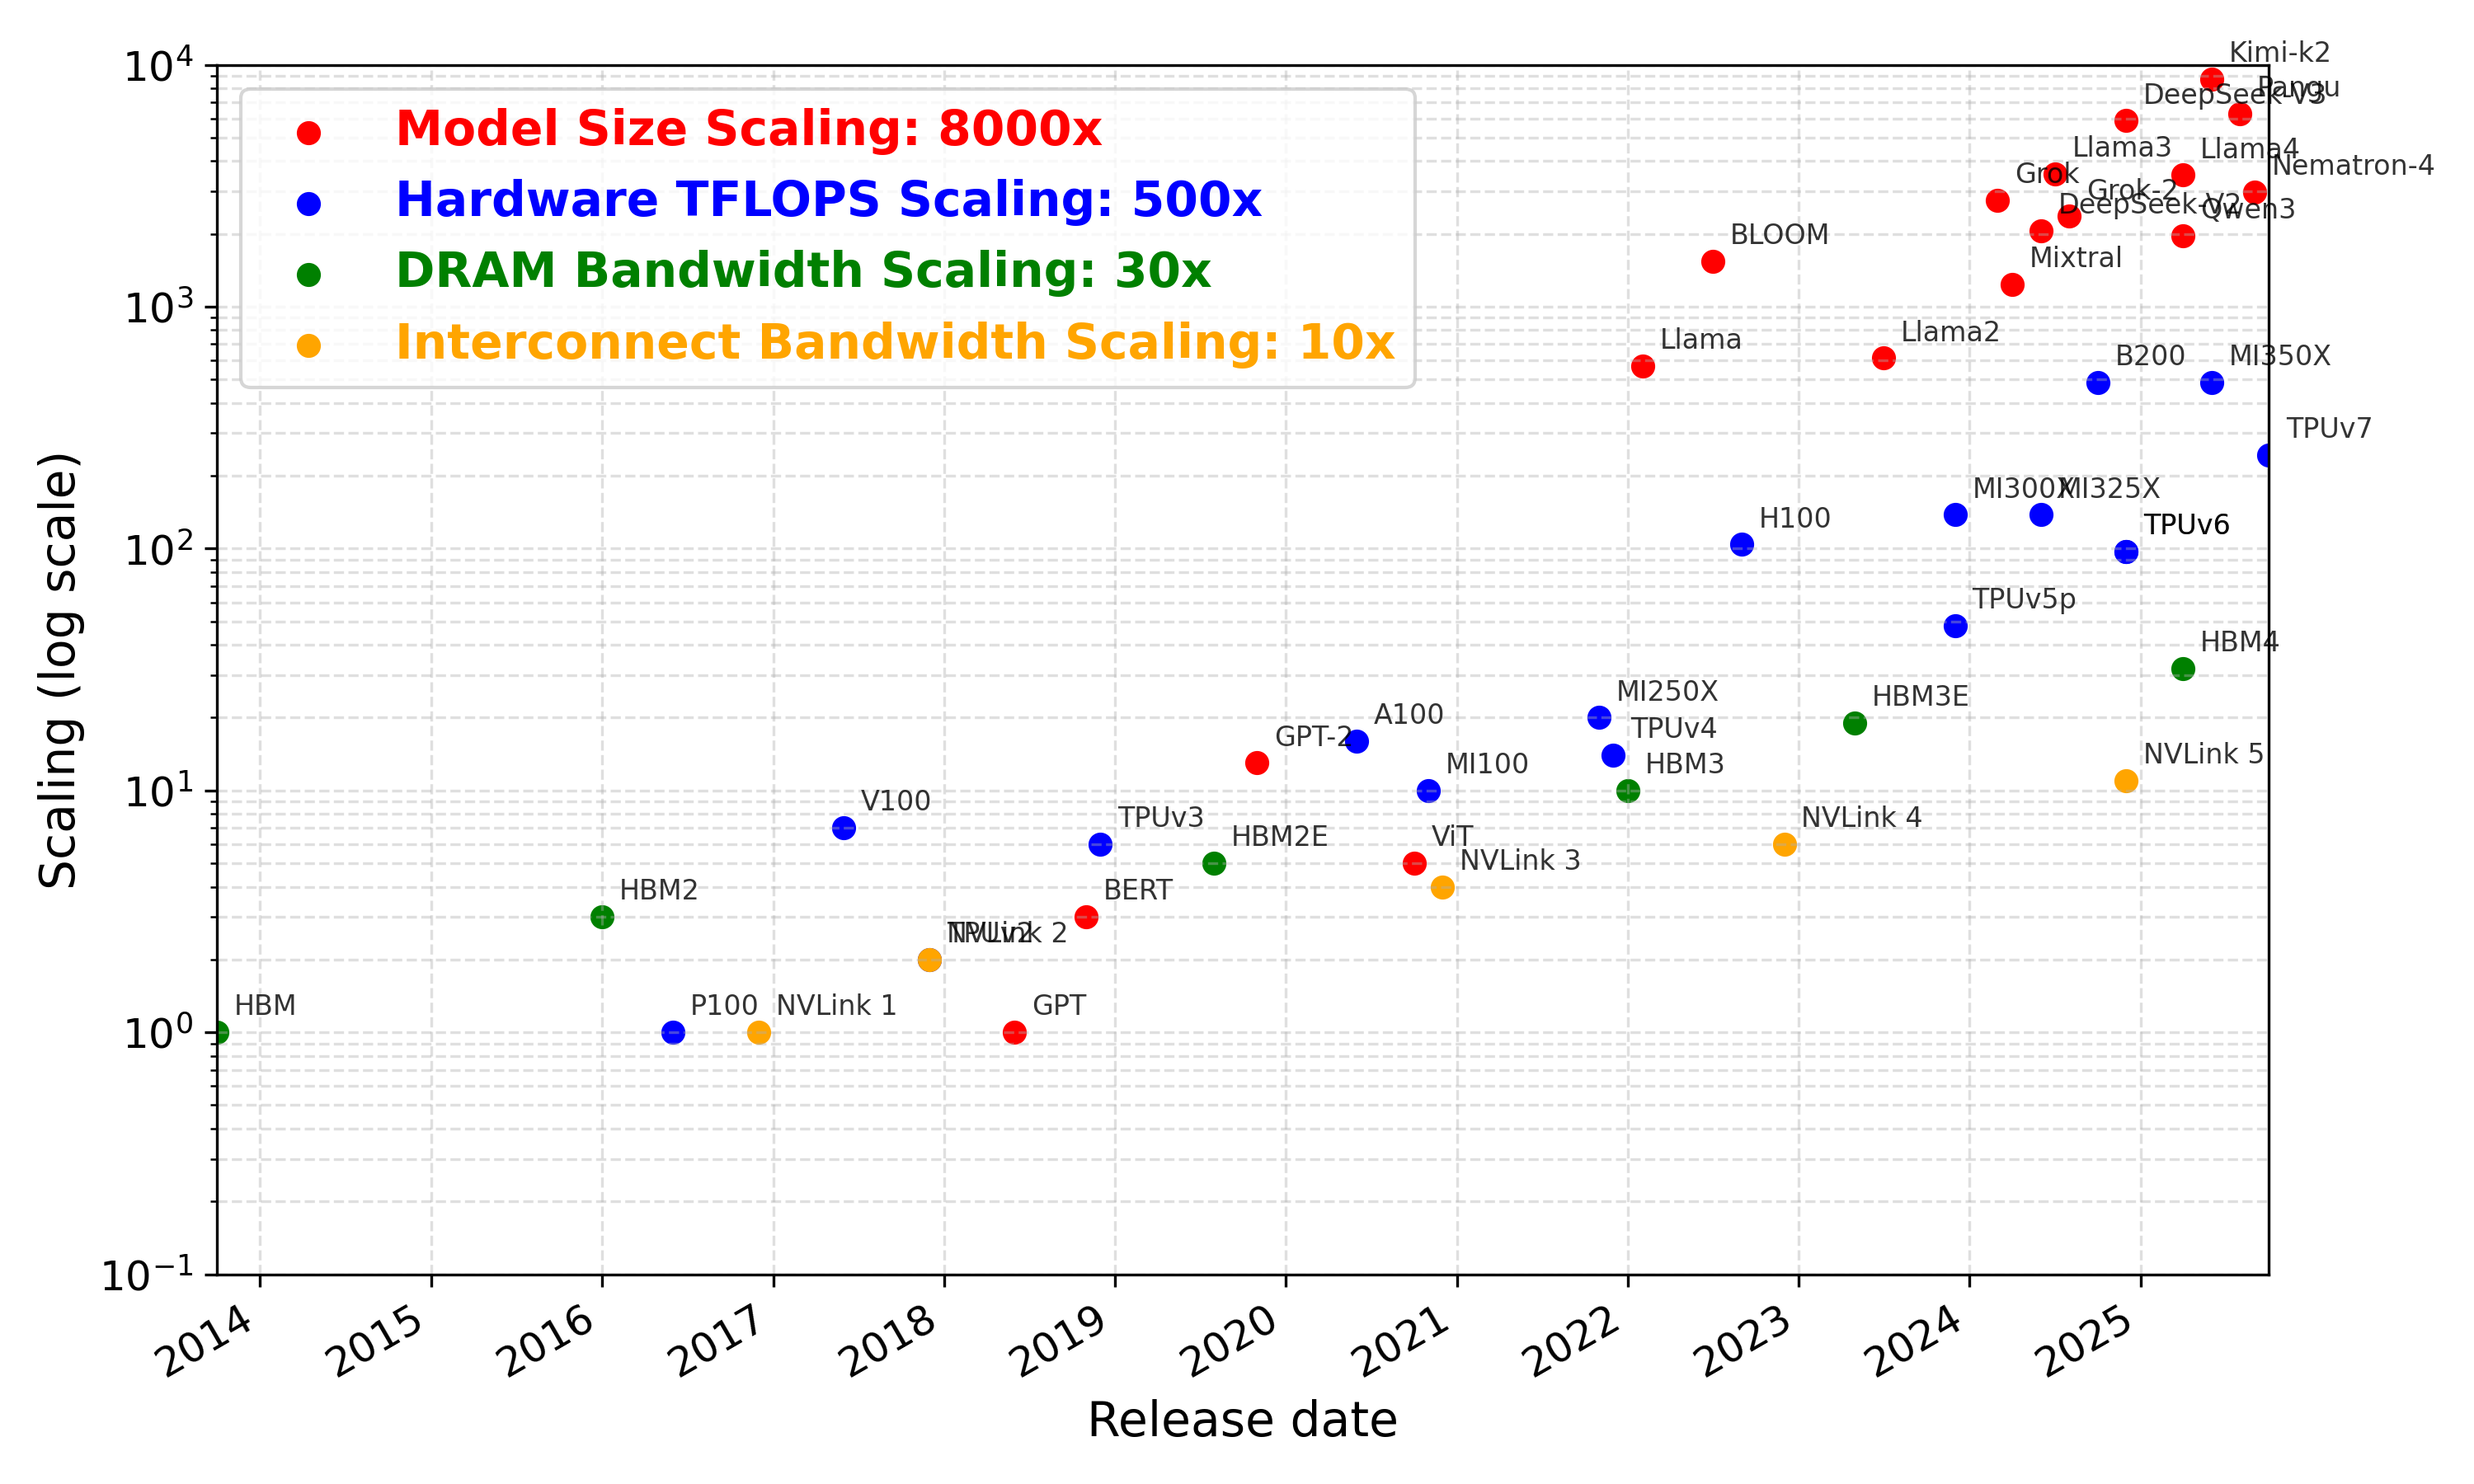
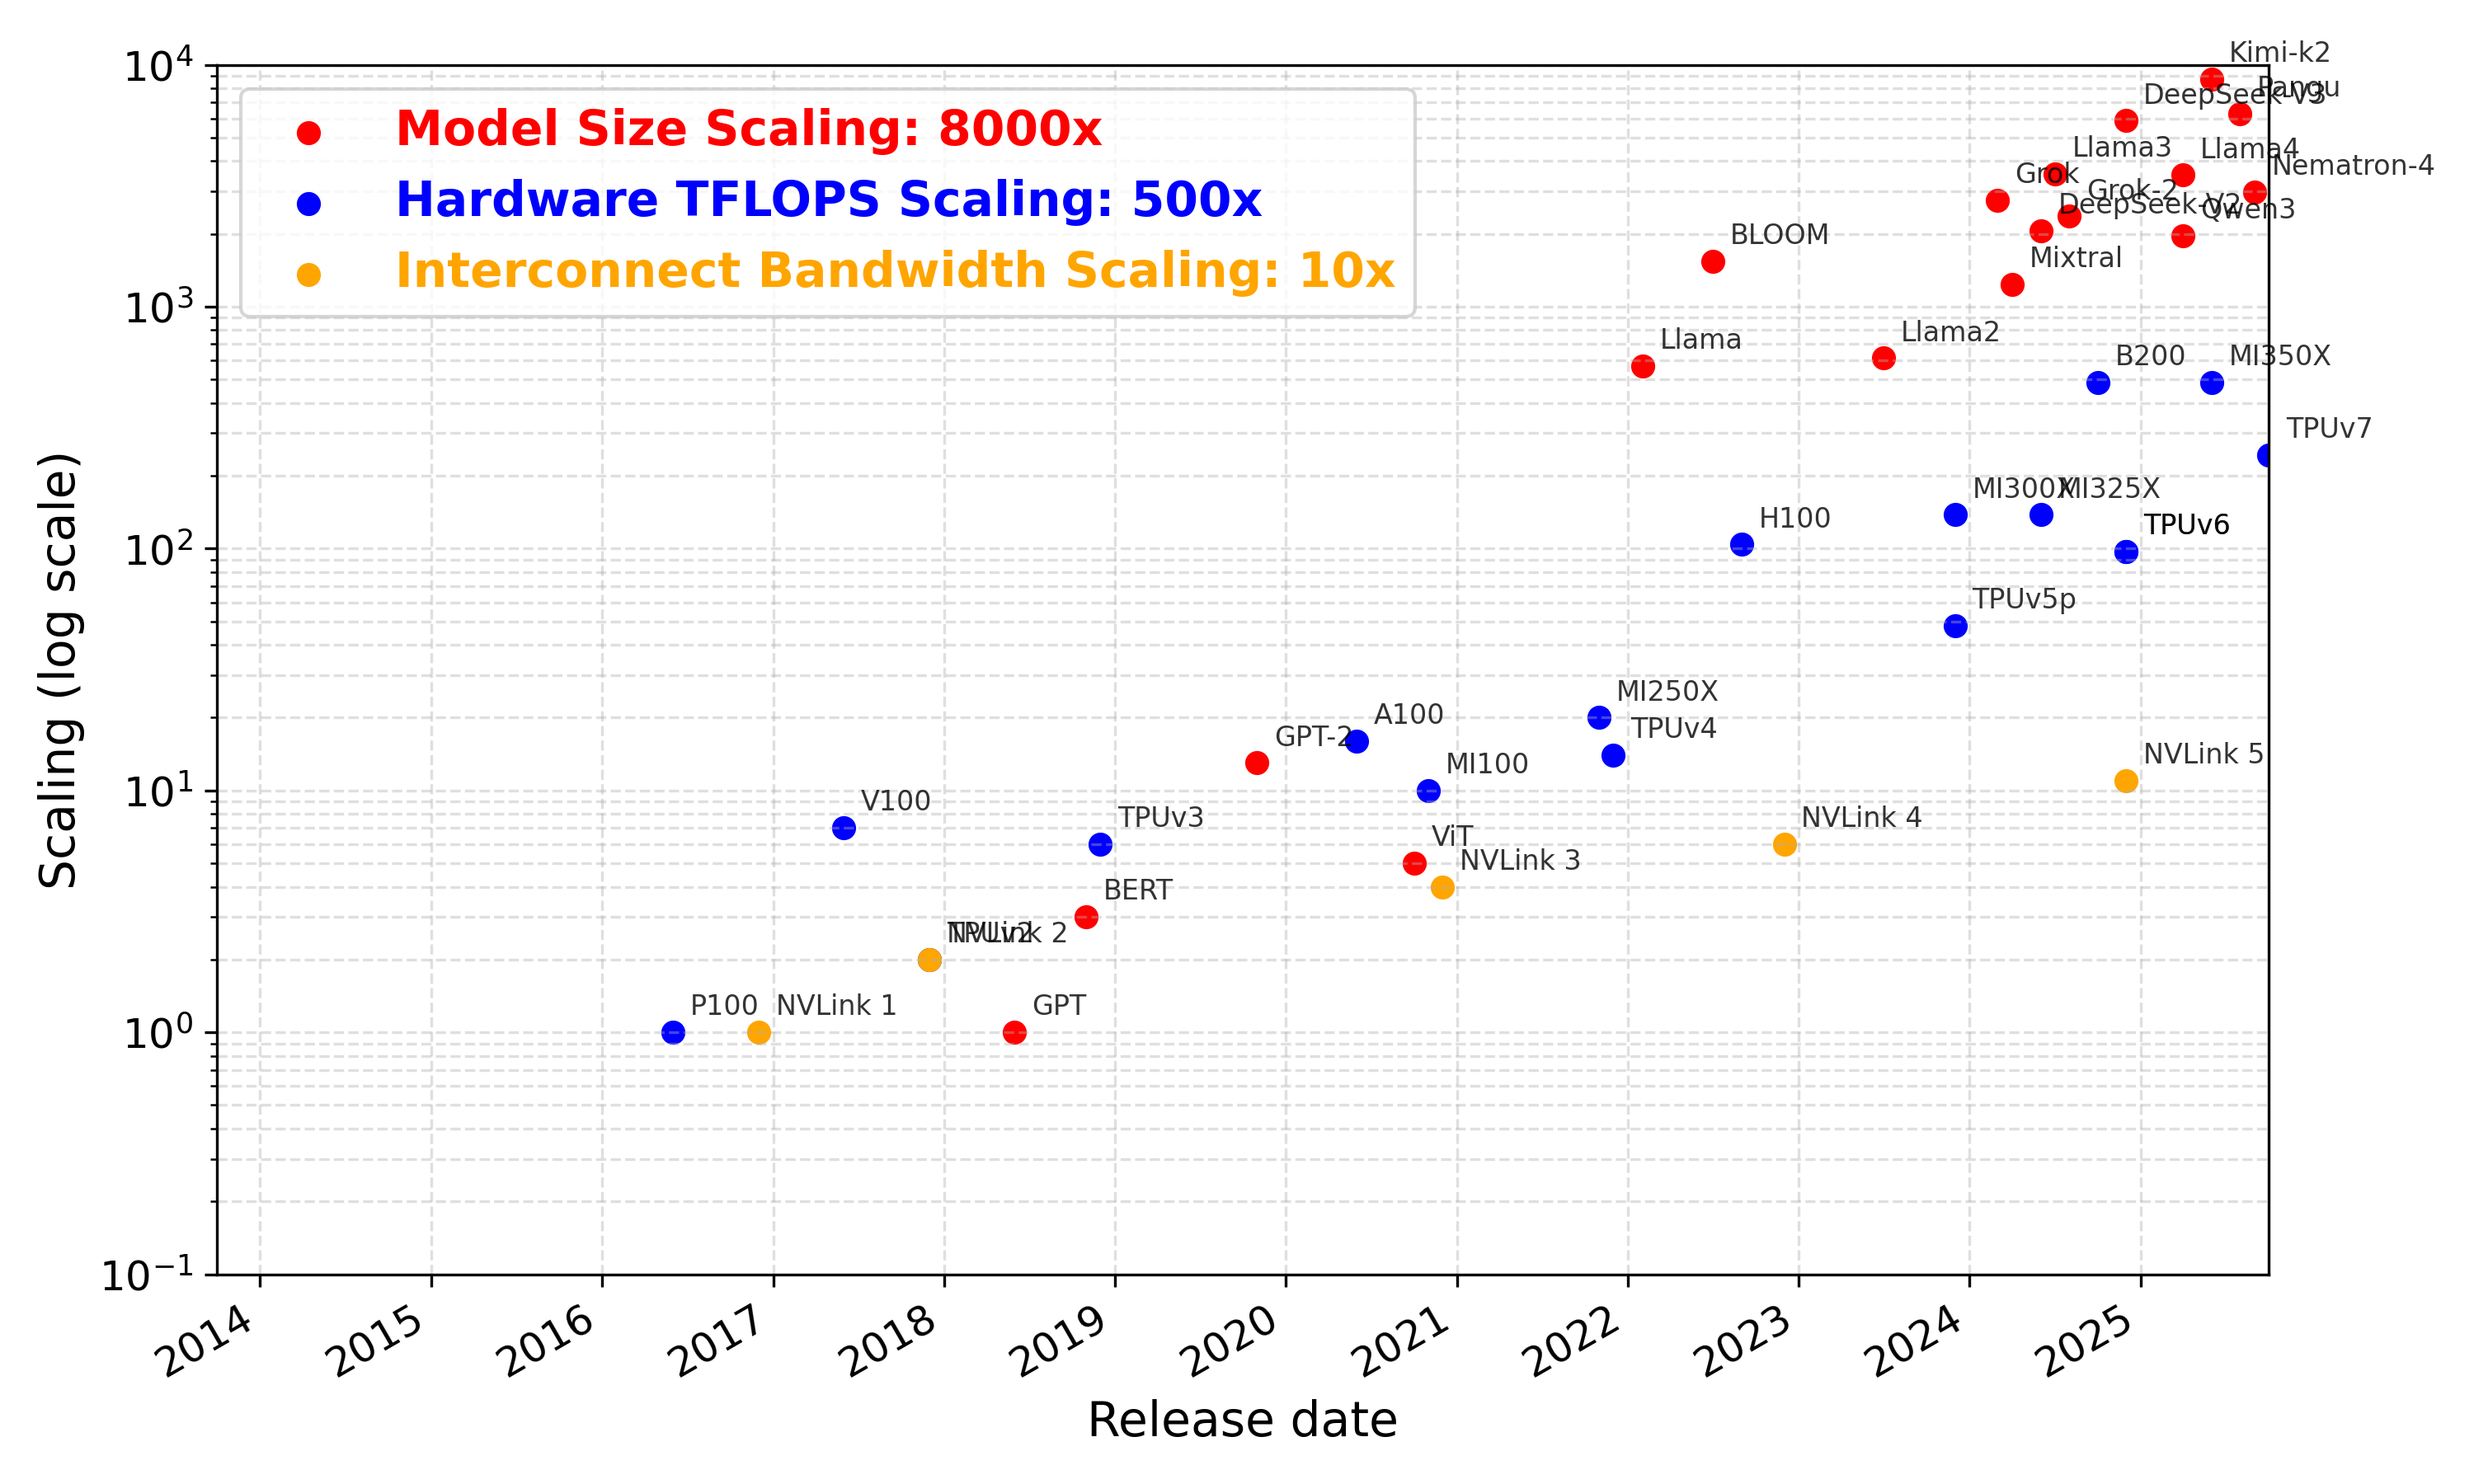
Oct. 17

diff --git a/LLM_size_vs_hardware.py b/LLM_size_vs_hardware.py
@@ -52,13 +52,22 @@ hardware_rows = [
     ("TPUv7", "Oct-25", 243),
 ]
 
-dram_rows = [
+dram_bandwidth_rows = [
     ("HBM", "Oct-13", 1),
     ("HBM2", "Jan-16", 3),
     ("HBM2E", "Aug-19", 5),
     ("HBM3", "Jan-22", 10),
     ("HBM3E", "May-23", 19),
     ("HBM4", "Apr-25", 32),
+]
+
+dram_capacity_rows = [
+    ("HBM", "Oct-13", 1),
+    ("HBM2", "Jan-16", 2),
+    ("HBM2E", "Aug-19", 4),
+    ("HBM3", "Jan-22", 6),
+    ("HBM3E", "May-23", 9),
+    ("HBM4", "Apr-25", 16),
 ]
 
 interconnect_rows = [
@@ -73,16 +82,17 @@ df = pd.concat(
     [
         make_df(model_rows, "Model Size Scaling: 8000x"),
         make_df(hardware_rows, "Hardware TFLOPS Scaling: 500x"),
-        make_df(dram_rows, "DRAM Bandwidth Scaling: 30x"),
         make_df(interconnect_rows, "Interconnect Bandwidth Scaling: 10x"),
+        make_df(dram_bandwidth_rows, "DRAM Bandwidth Scaling: 30x"),
+        make_df(dram_capacity_rows, "DRAM Capacity Scaling: 16x"),
     ],
     ignore_index=True,
 )
 
-# Create three separate figures
+# Create five separate figures
 # Define colors for each group
-colors = ['red', 'blue', 'green', 'orange']
-group_names = ["Model Size Scaling: 8000x", "Hardware TFLOPS Scaling: 500x", "DRAM Bandwidth Scaling: 30x", "Interconnect Bandwidth Scaling: 10x"]
+colors = ['red', 'blue', 'orange', 'green', 'purple']
+group_names = ["Model Size Scaling: 8000x", "Hardware TFLOPS Scaling: 500x", "Interconnect Bandwidth Scaling: 10x", "DRAM Bandwidth Scaling: 30x", "DRAM Capacity Scaling: 16x"]
 
 # Calculate overall date range for consistent x-axis across all figures
 overall_min_date = df["date"].min()
@@ -144,5 +154,11 @@ create_plot(["Model Size Scaling: 8000x"], "Model Scaling Only", 1)
 # Figure 2: Model and Hardware TFLOPS scalings
 create_plot(["Model Size Scaling: 8000x", "Hardware TFLOPS Scaling: 500x"], "Model and Hardware TFLOPS Scaling", 2)
 
-# Figure 3: All four scalings
-create_plot(["Model Size Scaling: 8000x", "Hardware TFLOPS Scaling: 500x", "DRAM Bandwidth Scaling: 30x", "Interconnect Bandwidth Scaling: 10x"], "All Four Scalings", 3)
+# Figure 3: Model, Hardware TFLOPS and Interconnect BW Scaling
+create_plot(["Model Size Scaling: 8000x", "Hardware TFLOPS Scaling: 500x", "Interconnect Bandwidth Scaling: 10x"], "Model, Hardware TFLOPS and Interconnect BW Scaling", 3)
+
+# Figure 4: Add DRAM Bandwidth Scaling
+create_plot(["Model Size Scaling: 8000x", "Hardware TFLOPS Scaling: 500x", "Interconnect Bandwidth Scaling: 10x", "DRAM Bandwidth Scaling: 30x"], "All Four Scalings", 4)
+
+# Figure 5: Model, Hardware TFLOPS, DRAM BW and Capacity (no interconnect)
+create_plot(["Model Size Scaling: 8000x", "Hardware TFLOPS Scaling: 500x", "DRAM Bandwidth Scaling: 30x", "DRAM Capacity Scaling: 16x"], "Model, Hardware TFLOPS, DRAM BW and Capacity", 5)

diff --git a/DREAM_power_figures.py b/DREAM_power_figures.py
@@ -1,0 +1,44 @@
+# Plot three separate dotted-line charts using matplotlib (no explicit colors).
+import matplotlib.pyplot as plt
+
+# Data from the table
+labels = ["Vector\nMAC", "1×16\nSA", "2×16\nSA", "4×16\nSA", "8×16\nSA", "16×16\nSA"]
+throughput = [1, 1, 1.9, 3.5, 5.7, 8.1]
+pu_power = [1, 1.1, 1.4, 2.1, 3.1, 7.9]
+device_power = [1, 1.00, 1.2, 1.4, 1.8, 3.3]
+
+# 1) Throughput only
+plt.figure()
+plt.plot(labels, throughput, linestyle="-", marker="o", markersize=8, label="Throughput")
+plt.xlabel("PU design", fontdict={'fontsize': 18})
+plt.ylabel("Scaling Factor", fontdict={'fontsize': 18})
+plt.legend(fontsize=16)
+plt.xticks(fontsize=16)
+plt.yticks(fontsize=16)
+plt.tight_layout()
+plt.savefig("DREAM_power_figures_1.png")
+
+# 2) Throughput + PU Power
+plt.figure()
+plt.plot(labels, throughput, linestyle="-", marker="o", markersize=8, label="Throughput")
+plt.plot(labels, pu_power, linestyle="-", marker="o", markersize=8, label="PU Power")
+plt.xlabel("PU design", fontdict={'fontsize': 18})
+plt.ylabel("Scaling Factor", fontdict={'fontsize': 18})
+plt.legend(fontsize=16)
+plt.xticks(fontsize=16)
+plt.yticks(fontsize=16)
+plt.tight_layout()
+plt.savefig("DREAM_power_figures_2.png")
+
+# 3) All three lines
+plt.figure()
+plt.plot(labels, throughput, linestyle="-", marker="o", markersize=8, label="Throughput")
+plt.plot(labels, pu_power, linestyle="-", marker="o", markersize=8, label="PU Power")
+plt.plot(labels, device_power, linestyle="-", marker="o", markersize=8, label="Device Power")
+plt.xlabel("PU design", fontdict={'fontsize': 18})
+plt.ylabel("Scaling Factor", fontdict={'fontsize': 18})
+plt.legend(fontsize=16)
+plt.xticks(fontsize=16)
+plt.yticks(fontsize=16)
+plt.tight_layout()
+plt.savefig("DREAM_power_figures_3.png")
